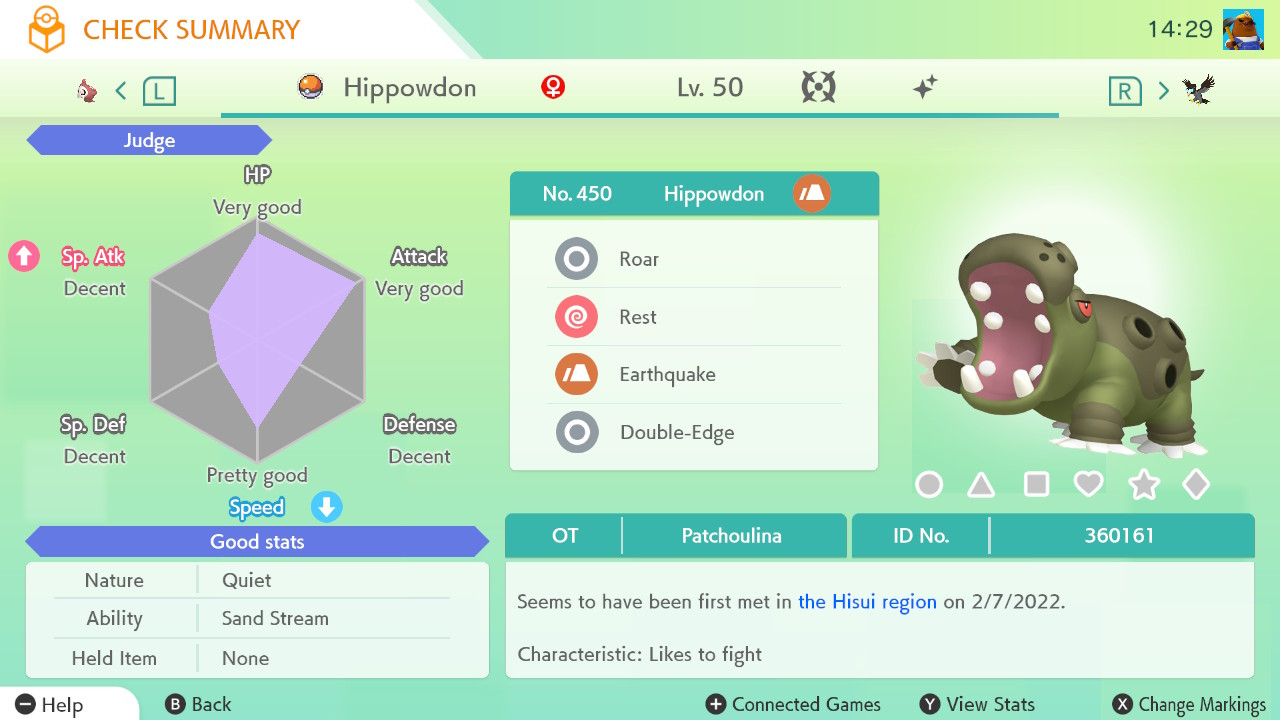
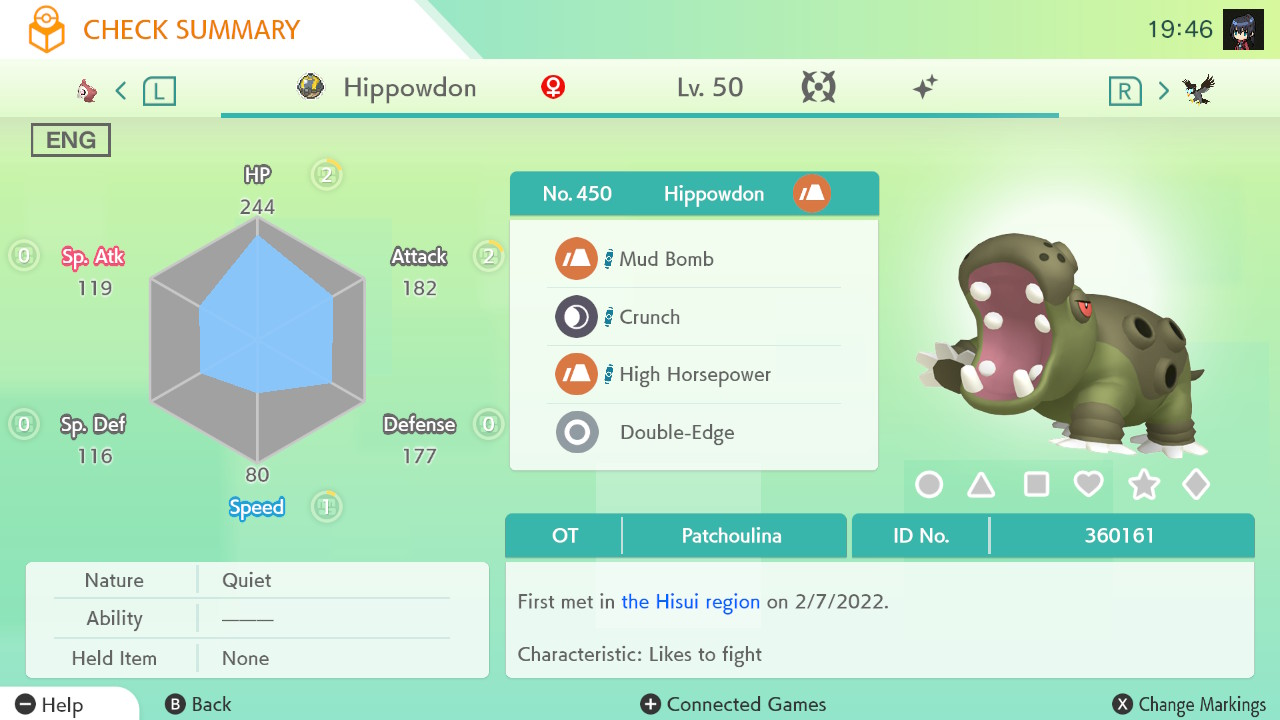
updating repository

diff --git a/switch_sketchbook/images/README.md b/switch_sketchbook/images/README.md
@@ -124,6 +124,10 @@ shiny/0133 Eevee 2021-08-14 POGO Premier.jpg
 ![](shiny/0133%20Eevee%202021-08-14%20POGO%20Premier.jpg)
 shiny/0133 Eevee 2021-08-15 POGO Premier.jpg
 ![](shiny/0133%20Eevee%202021-08-15%20POGO%20Premier.jpg)
+shiny/0133 Eevee 2022-07-17 POGO Ultra.jpg
+![](shiny/0133%20Eevee%202022-07-17%20POGO%20Ultra.jpg)
+shiny/0133 Eevee 2022-08-20 POGO Ultra.jpg
+![](shiny/0133%20Eevee%202022-08-20%20POGO%20Ultra.jpg)
 shiny/0134 Vaporeon 2021-08-15 POGO Premier.jpg
 ![](shiny/0134%20Vaporeon%202021-08-15%20POGO%20Premier.jpg)
 shiny/0135 Jolteon 2021-08-15 POGO Premier.jpg
@@ -132,6 +136,22 @@ shiny/0136 Flareon 2021-08-15 POGO Premier.jpg
 ![](shiny/0136%20Flareon%202021-08-15%20POGO%20Premier.jpg)
 shiny/0143 Snorlax 2021-12-24 LGPE Ultra.jpg
 ![](shiny/0143%20Snorlax%202021-12-24%20LGPE%20Ultra.jpg)
+shiny/0147 Dratini 2022-11-05 POGO Ultra - 1.jpg
+![](shiny/0147%20Dratini%202022-11-05%20POGO%20Ultra%20-%201.jpg)
+shiny/0147 Dratini 2022-11-05 POGO Ultra - 2.jpg
+![](shiny/0147%20Dratini%202022-11-05%20POGO%20Ultra%20-%202.jpg)
+shiny/0147 Dratini 2022-11-05 POGO Ultra - 3.jpg
+![](shiny/0147%20Dratini%202022-11-05%20POGO%20Ultra%20-%203.jpg)
+shiny/0147 Dratini 2022-11-05 POGO Ultra - 4.jpg
+![](shiny/0147%20Dratini%202022-11-05%20POGO%20Ultra%20-%204.jpg)
+shiny/0147 Dratini 2022-11-05 POGO Ultra - 5.jpg
+![](shiny/0147%20Dratini%202022-11-05%20POGO%20Ultra%20-%205.jpg)
+shiny/0147 Dratini 2022-11-05 POGO Ultra - 6.jpg
+![](shiny/0147%20Dratini%202022-11-05%20POGO%20Ultra%20-%206.jpg)
+shiny/0147 Dratini 2022-11-05 POGO Ultra - 7.jpg
+![](shiny/0147%20Dratini%202022-11-05%20POGO%20Ultra%20-%207.jpg)
+shiny/0148 Dragonair 2022-11-05 POGO Ultra.jpg
+![](shiny/0148%20Dragonair%202022-11-05%20POGO%20Ultra.jpg)
 shiny/0149 Dragonite 2020-12-06 LGPE Ultra.jpg
 ![](shiny/0149%20Dragonite%202020-12-06%20LGPE%20Ultra.jpg)
 shiny/0149 Dragonite 2022-06-08 LGPE Premier.jpg
@@ -140,12 +160,22 @@ shiny/0169 Crobat 2020-07-10 LGPE Ultra.jpg
 ![](shiny/0169%20Crobat%202020-07-10%20LGPE%20Ultra.jpg)
 shiny/0173 Cleffa 2021-03-06 GSC Poke.jpg
 ![](shiny/0173%20Cleffa%202021-03-06%20GSC%20Poke.jpg)
+shiny/0195 Quagsire 2022-10-10 USUM Heal.jpg
+![](shiny/0195%20Quagsire%202022-10-10%20USUM%20Heal.jpg)
+shiny/0195 Quagsire 2022-10-17 USUM Heal.jpg
+![](shiny/0195%20Quagsire%202022-10-17%20USUM%20Heal.jpg)
+shiny/0195 Quagsire 2022-10-26 USUM Heal.jpg
+![](shiny/0195%20Quagsire%202022-10-26%20USUM%20Heal.jpg)
 shiny/0196 Espeon 2021-08-15 POGO Premier.jpg
 ![](shiny/0196%20Espeon%202021-08-15%20POGO%20Premier.jpg)
 shiny/0197 Umbreon 2021-08-15 POGO Premier.jpg
 ![](shiny/0197%20Umbreon%202021-08-15%20POGO%20Premier.jpg)
 shiny/0208 Steelix 2020-06-18 LGPE Ultra.jpg
 ![](shiny/0208%20Steelix%202020-06-18%20LGPE%20Ultra.jpg)
+shiny/0216 Teddiursa 2022-11-12 POGO Ultra - 1.jpg
+![](shiny/0216%20Teddiursa%202022-11-12%20POGO%20Ultra%20-%201.jpg)
+shiny/0216 Teddiursa 2022-11-12 POGO Ultra - 2.jpg
+![](shiny/0216%20Teddiursa%202022-11-12%20POGO%20Ultra%20-%202.jpg)
 shiny/0230 Kingdra 2020-11-25 LGPE Premier.jpg
 ![](shiny/0230%20Kingdra%202020-11-25%20LGPE%20Premier.jpg)
 shiny/0230 Kingdra 2021-01-01 SWSH Dive.jpg
@@ -162,22 +192,54 @@ shiny/0258 Mudkip 2022-04-10 POGO Ultra.jpg
 ![](shiny/0258%20Mudkip%202022-04-10%20POGO%20Ultra.jpg)
 shiny/0260 Swampert 2019-07-22 POGO Ultra Designr.jpg
 ![](shiny/0260%20Swampert%202019-07-22%20POGO%20Ultra%20Designr.jpg)
+shiny/0263 Galarian-Zigzagoon 2022-08-13 POGO Great.jpg
+![](shiny/0263%20Galarian-Zigzagoon%202022-08-13%20POGO%20Great.jpg)
+shiny/0263 Galarian-Zigzagoon 2022-08-13 POGO Poke - 1.jpg
+![](shiny/0263%20Galarian-Zigzagoon%202022-08-13%20POGO%20Poke%20-%201.jpg)
+shiny/0263 Galarian-Zigzagoon 2022-08-13 POGO Poke - 2.jpg
+![](shiny/0263%20Galarian-Zigzagoon%202022-08-13%20POGO%20Poke%20-%202.jpg)
+shiny/0263 Galarian-Zigzagoon 2022-08-13 POGO Poke - 3.jpg
+![](shiny/0263%20Galarian-Zigzagoon%202022-08-13%20POGO%20Poke%20-%203.jpg)
+shiny/0263 Galarian-Zigzagoon 2022-08-13 POGO Poke - 4.jpg
+![](shiny/0263%20Galarian-Zigzagoon%202022-08-13%20POGO%20Poke%20-%204.jpg)
+shiny/0263 Galarian-Zigzagoon 2022-08-13 POGO Poke - 5.jpg
+![](shiny/0263%20Galarian-Zigzagoon%202022-08-13%20POGO%20Poke%20-%205.jpg)
+shiny/0271 Lombre 2022-10-11 USUM Net.jpg
+![](shiny/0271%20Lombre%202022-10-11%20USUM%20Net.jpg)
+shiny/0271 Lombre 2022-10-18 USUM Net.jpg
+![](shiny/0271%20Lombre%202022-10-18%20USUM%20Net.jpg)
 shiny/0273 Seedot 2020-12-12 POGO Ultra - 2.jpg
 ![](shiny/0273%20Seedot%202020-12-12%20POGO%20Ultra%20-%202.jpg)
 shiny/0273 Seedot 2020-12-12 POGO Ultra.jpg
 ![](shiny/0273%20Seedot%202020-12-12%20POGO%20Ultra.jpg)
+shiny/0274 Nuzleaf 2022-10-12 USUM Nest.jpg
+![](shiny/0274%20Nuzleaf%202022-10-12%20USUM%20Nest.jpg)
+shiny/0277 Swellow 2022-10-11 USUM Nest.jpg
+![](shiny/0277%20Swellow%202022-10-11%20USUM%20Nest.jpg)
 shiny/0279 Pelipper 2020-12-24 SWSH Dive.jpg
 ![](shiny/0279%20Pelipper%202020-12-24%20SWSH%20Dive.jpg)
 shiny/0282 Gardevoir 2020-07-16 SWSH Premier.jpg
 ![](shiny/0282%20Gardevoir%202020-07-16%20SWSH%20Premier.jpg)
 shiny/0293 Wishmur 2015-12-05 ORAS Dusk.jpg
 ![](shiny/0293%20Wishmur%202015-12-05%20ORAS%20Dusk.jpg)
+shiny/0303 Mawile 2022-10-19 USUM Ultra Paulina.jpg
+![](shiny/0303%20Mawile%202022-10-19%20USUM%20Ultra%20Paulina.jpg)
+shiny/0308 Medicham 2022-10-20 USUM Dive.jpg
+![](shiny/0308%20Medicham%202022-10-20%20USUM%20Dive.jpg)
+shiny/0308 Medicham 2022-10-27 USUM Dive.jpg
+![](shiny/0308%20Medicham%202022-10-27%20USUM%20Dive.jpg)
 shiny/0311 Plusle 2018-07-14 POGO Poke Gloria.jpg
 ![](shiny/0311%20Plusle%202018-07-14%20POGO%20Poke%20Gloria.jpg)
 shiny/0312 Minum 2018-07-15 POGO Poke Gloria.jpg
 ![](shiny/0312%20Minum%202018-07-15%20POGO%20Poke%20Gloria.jpg)
 shiny/0320 Wailmer 2018-07-18 POGO Poke Gloria.jpg
 ![](shiny/0320%20Wailmer%202018-07-18%20POGO%20Poke%20Gloria.jpg)
+shiny/0326 Grumpig 2022-10-25 USUM Ultra.jpg
+![](shiny/0326%20Grumpig%202022-10-25%20USUM%20Ultra.jpg)
+shiny/0334 Altaria 2022-10-12 USUM Premier.jpg
+![](shiny/0334%20Altaria%202022-10-12%20USUM%20Premier.jpg)
+shiny/0334 Altaria 2022-10-19 USUM Premier.jpg
+![](shiny/0334%20Altaria%202022-10-19%20USUM%20Premier.jpg)
 shiny/0353 Shuppet 2015-11-18 ORAS Dusk.jpg
 ![](shiny/0353%20Shuppet%202015-11-18%20ORAS%20Dusk.jpg)
 shiny/0355 Duskull 2021-10-09 POGO Ultra.jpg
@@ -202,6 +264,8 @@ shiny/0363 Spheal 2022-01-16 POGO Ultra - 4.jpg
 ![](shiny/0363%20Spheal%202022-01-16%20POGO%20Ultra%20-%204.jpg)
 shiny/0393 Piplup 2020-12-12 POGO Ultra.jpg
 ![](shiny/0393%20Piplup%202020-12-12%20POGO%20Ultra.jpg)
+shiny/0396 Starly 2022-07-17 POGO Great.jpg
+![](shiny/0396%20Starly%202022-07-17%20POGO%20Great.jpg)
 shiny/0400 Bibarel 2022-02-14 PLA Ultra.jpg
 ![](shiny/0400%20Bibarel%202022-02-14%20PLA%20Ultra.jpg)
 shiny/0402 Kricketune 2022-02-12 PLA Ultra.jpg
@@ -212,6 +276,8 @@ shiny/0405 Luxray 2022-02-26 PLA Ultra.jpg
 ![](shiny/0405%20Luxray%202022-02-26%20PLA%20Ultra.jpg)
 shiny/0407 Roserade 2021-02-07 POGO Ultra.jpg
 ![](shiny/0407%20Roserade%202021-02-07%20POGO%20Ultra.jpg)
+shiny/0419 Floatzel 2022-09-24 USUM Ultra Paulina.jpg
+![](shiny/0419%20Floatzel%202022-09-24%20USUM%20Ultra%20Paulina.jpg)
 shiny/0430 Honchkrow 2022-02-26 PLA Wing.jpg
 ![](shiny/0430%20Honchkrow%202022-02-26%20PLA%20Wing.jpg)
 shiny/0443 Gible 2021-06-06 POGO Great.jpg
@@ -226,6 +292,8 @@ shiny/0445 Garchomp 2021-06-06 POGO Ultra.jpg
 ![](shiny/0445%20Garchomp%202021-06-06%20POGO%20Ultra.jpg)
 shiny/0450 Hippowdon 2022-02-07 PLA Ultra.jpg
 ![](shiny/0450%20Hippowdon%202022-02-07%20PLA%20Ultra.jpg)
+shiny/0450 Hippowdon 2022-10-15 USUM Luxury.jpg
+![](shiny/0450%20Hippowdon%202022-10-15%20USUM%20Luxury.jpg)
 shiny/0461 Weavile 2021-01-31 POGO Ultra.jpg
 ![](shiny/0461%20Weavile%202021-01-31%20POGO%20Ultra.jpg)
 shiny/0464 Rhyperior 2020-02-22 POGO Ultra Aisline.jpg
@@ -252,6 +320,8 @@ shiny/0482 Azelf 2021-12-12 BDSP Quick.jpg
 ![](shiny/0482%20Azelf%202021-12-12%20BDSP%20Quick.jpg)
 shiny/0483 Dialga 2022-04-27 BDSP Master.jpg
 ![](shiny/0483%20Dialga%202022-04-27%20BDSP%20Master.jpg)
+shiny/0483 Dialga 2022-08-01 DPPt Timer.jpg
+![](shiny/0483%20Dialga%202022-08-01%20DPPt%20Timer.jpg)
 shiny/0484 Palkia 2021-11-28 BDSP Premier.jpg
 ![](shiny/0484%20Palkia%202021-11-28%20BDSP%20Premier.jpg)
 shiny/0485 Heatran 2022-05-24 BDSP Repeat.jpg
@@ -266,6 +336,20 @@ shiny/0492 Shaymin 2022-04-13 BDSP Moon.jpg
 ![](shiny/0492%20Shaymin%202022-04-13%20BDSP%20Moon.jpg)
 shiny/0493 Arceus 2022-04-04 BDSP Heavy.jpg
 ![](shiny/0493%20Arceus%202022-04-04%20BDSP%20Heavy.jpg)
+shiny/0506 Lillipup 2022-07-20 POGO Ultra.jpg
+![](shiny/0506%20Lillipup%202022-07-20%20POGO%20Ultra.jpg)
+shiny/0531 Audino 2022-10-11 USUM Heal.jpg
+![](shiny/0531%20Audino%202022-10-11%20USUM%20Heal.jpg)
+shiny/0552 Krokorok 2022-10-07 USUM Luxury.jpg
+![](shiny/0552%20Krokorok%202022-10-07%20USUM%20Luxury.jpg)
+shiny/0561 Sigilyph 2022-10-19 USUM Ultra Paulina.jpg
+![](shiny/0561%20Sigilyph%202022-10-19%20USUM%20Ultra%20Paulina.jpg)
+shiny/0607 Litwick 2022-10-15 POGO Ultra - 1.jpg
+![](shiny/0607%20Litwick%202022-10-15%20POGO%20Ultra%20-%201.jpg)
+shiny/0607 Litwick 2022-10-15 POGO Ultra - 2.jpg
+![](shiny/0607%20Litwick%202022-10-15%20POGO%20Ultra%20-%202.jpg)
+shiny/0618 Stunfisk 2022-10-13 USUM Dive.jpg
+![](shiny/0618%20Stunfisk%202022-10-13%20USUM%20Dive.jpg)
 shiny/0628 Hisuian-Braviary 2022-02-12 PLA Ultra.jpg
 ![](shiny/0628%20Hisuian-Braviary%202022-02-12%20PLA%20Ultra.jpg)
 shiny/0661 Fletchling 2021-03-06 POGO Ultra - 1.jpg
@@ -280,6 +364,10 @@ shiny/0662 Fletchinder 2021-03-06 POGO Ultra.jpg
 ![](shiny/0662%20Fletchinder%202021-03-06%20POGO%20Ultra.jpg)
 shiny/0663 Talonflame 2021-03-06 POGO Ultra.jpg
 ![](shiny/0663%20Talonflame%202021-03-06%20POGO%20Ultra.jpg)
+shiny/0695 Heliolisk 2022-10-08 USUM Repeat.jpg
+![](shiny/0695%20Heliolisk%202022-10-08%20USUM%20Repeat.jpg)
+shiny/0695 Heliolisk 2022-10-27 USUM Repeat.jpg
+![](shiny/0695%20Heliolisk%202022-10-27%20USUM%20Repeat.jpg)
 shiny/0700 Sylveon 2021-08-15 POGO Premier.jpg
 ![](shiny/0700%20Sylveon%202021-08-15%20POGO%20Premier.jpg)
 shiny/0808 Meltan 2020-11-20 POGO Premier.jpg
